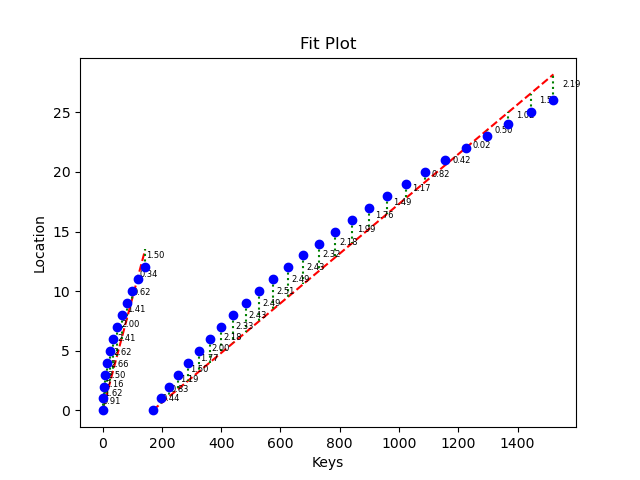
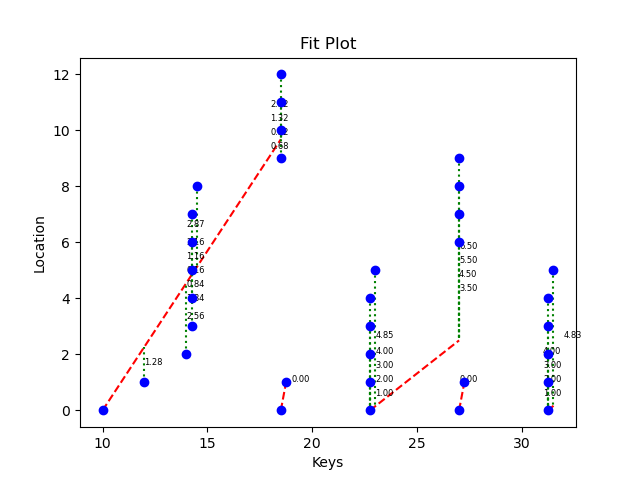
completed irng function, needs testing

diff --git a/src/segment.cpp b/src/segment.cpp
@@ -4,10 +4,10 @@
 #include <fstream>
 #include "segment.h"
 
-const float FLT_INF = std::numeric_limits<float>::infinity();
-const float INT_INF = std::numeric_limits<int>::max();
+// const float FLT_INF = std::numeric_limits<float>::infinity();
+// const float INT_INF = std::numeric_limits<int>::max();
 
-int* search_segment(Segment* segment, int key){
+float* search_segment(Segment* segment, float key){
     for(int i = 0; i < segment->size; i++){
         if(segment->data[i] == key) return (segment->data + i);
     }
@@ -23,46 +23,151 @@ void print_segment(Segment* segment, std::ofstream& stream){
     }
 }
 
-std::vector<std::pair<int, Segment*>> gen_segments_cone(int* data, int size, int err){
-    int *curr, st, loc, up, dn, dlt, ind = 0;
-    float slhigh, sllow;
-    std::vector<std::pair<int, Segment*>> res;
+std::vector<std::pair<float, Segment*>> gen_segments_cone(float* data, int size, int err){ // fix by diff
+    std::vector<std::pair<float, Segment*>> res;
+    if(size == 0) return res;
     Segment* seg;
+    float *curr, st, dlt;
+    int loc, up, dn, ind = 0;
+    float slhigh, sllow;
     while(ind < size){
         curr = (data + ind);
         st = data[ind];
-        slhigh = FLT_INF;
-        sllow = 0;
-        loc = 1;
         ind += 1;
-        while(ind < size){
+        if(size - ind > 0){
             dlt = data[ind] - st;
-            up = slhigh == FLT_INF ? INT_INF : (int)(slhigh * dlt);
-            dn = sllow == FLT_INF ? INT_INF : (int)(sllow * dlt);
-            // std::cout << up << " " << dn << " " << slhigh << " " << sllow << "\n";
-            if(loc > up || loc < dn){
-                seg = new Segment(curr, loc, (slhigh + sllow) / 2);
-                res.emplace_back(data[ind - 1], seg);
-                if(ind == size) ind += 1;
-                break;
+            if(dlt == 0){
+                loc = 1;
+                while(dlt == 0 && loc <= err && ind < size){
+                    dlt = data[ind] - st;
+                    ind += 1;
+                    loc += 1;
+                }
+                if(ind < size){
+                    seg = new Segment(curr, loc, data[ind - loc], 0);
+                    res.emplace_back(data[ind - 1], seg);
+                }
             }
-            if(dlt > 0){
-                if(slhigh == FLT_INF || up - loc > err) slhigh = (float)(loc + err) / dlt;
-                if(loc - dn > err) sllow = (float)(loc - err) / dlt;
+            else{
+                slhigh = (1.0 + err) / dlt;
+                sllow = (1.0 - err) / dlt;
+                ind += 1;
+                loc = 2;
+                // std::cout << "--------------------\n";
+                if(size - ind == 1) break;
+                while(ind < size){
+                    dlt = data[ind] - st;
+                    up = (int)(slhigh * dlt);
+                    dn = (int)(sllow * dlt);
+                    // std::cout << "y: " << loc << ", y_high: " << up << ", y_low: " << dn << ", slh: " << slhigh << ", sll: " << sllow << "\n";
+                    if(loc > up || loc < dn){
+                        seg = new Segment(curr, loc, data[ind - loc], (slhigh + sllow) / 2);
+                        res.emplace_back(data[ind - 1], seg);
+                        break;
+                    }
+                    if(loc + err < up) slhigh = (loc + err) / dlt;
+                    if(loc - err > dn) sllow = (loc - err) / dlt;
+                    ind += 1;
+                    loc += 1;
+                }
             }
-            else sllow = FLT_INF;
-            ind += 1;
-            loc += 1;
+        }
+        else{
+            loc = 1;
+            slhigh = 0;
+            sllow = 0;
+            break;
         }
     }
-    if(ind == size){
-        seg = new Segment(curr, loc, (slhigh + sllow) / 2);
-        res.emplace_back(data[ind - 1], seg);
-    }
+    seg = new Segment(curr, loc, data[ind - loc], (slhigh + sllow) / 2);
+    res.emplace_back(data[ind - 1], seg);
     return res;
 }
 
-std::vector<std::pair<int, Segment*>> gen_segments_wmpt(int* data, int size, int err){
-    std::vector<std::pair<int, Segment*>> res;
+std::vector<std::pair<float, Segment*>> gen_segments_irng(float* data, int size, int err){
+    std::vector<std::pair<float, Segment*>> res;
+    if(size == 0) return res;
+    Segment* seg;
+    float *curr, st, dlt, st_up, st_dn;
+    int dup_cnt, loc, up, dn, ind = 0;
+    float slup, sldn;
+    Make_Segment:
+    while(ind < size){
+        curr = (data + ind);
+        st = data[ind];
+        ind += 1;
+        if(size - ind > 0){
+            dlt = data[ind] - st;
+            // need to set st_up, st_dn, slup, sldn, loc
+            dup_cnt = 0;
+            while(dlt == 0 && ind < size){
+                dlt = data[ind] - st;
+                ind += 1;
+                dup_cnt += 1;
+            }
+            if(dup_cnt > 0){
+                // our start has duplicates, need custom ranging
+                if((err << 1) < dup_cnt){
+                    // valid range: ind - E + dup_cnt to ind + E
+                    // not possible to include all, cut losses
+                    ind -= (dup_cnt - (err << 1));
+                    dup_cnt = err << 1;
+                    seg = new Segment(curr, dup_cnt + 1, data[ind - dup_cnt - 1], 0);
+                    res.emplace_back(data[ind - 1], seg);
+                    goto Make_Segment;
+                }
+                else if(ind < size){
+                    // got something left we can use to extend!
+                    st_up = err;
+                    st_dn = dup_cnt - err;
+                    dlt = data[ind] - st;
+                    loc = dup_cnt + 1;
+                    slup = (err + 1 - st_up) / dlt;
+                    sldn = (err - 1 - st_dn) / dlt;
+                }
+                else{
+                    // got everything possible
+                    loc = dup_cnt + 1;
+                    slup = 0;
+                    sldn = 0;
+                    break;
+                }
+            }
+            else{
+                // no dups, easy start
+                st_up = err;
+                st_dn = -err;
+                slup = 1.0 / dlt;
+                sldn = slup;
+                ind += 1;
+                loc = 2;
+            }
+            std::cout << "--------------------\n";
+            if(size - ind == 1) break;
+            while(ind < size){
+                dlt = data[ind] - st;
+                up = (int)(slup * dlt) + st_up;
+                dn = (int)(sldn * dlt) + st_dn;
+                std::cout << "y: " << loc << ", y_high: " << up << ", y_low: " << dn << ", slup: " << slup << ", sldn: " << sldn << ", stup: " << st_up << ", stdn: " << st_dn << "\n";
+                if(loc - err > up || loc + err < dn){
+                    seg = new Segment(curr, loc, data[ind - loc], (slup + sldn) / 2);
+                    res.emplace_back(data[ind - 1], seg);
+                    break;
+                }
+                if(loc + err < up) slup = (loc + err - st_up) / dlt;
+                if(loc - err > dn) sldn = (loc - err - st_dn) / dlt;
+                ind += 1;
+                loc += 1;
+            }
+        }
+        else{
+            loc = 1;
+            slup = 0;
+            sldn = 0;
+            break;
+        }
+    }
+    seg = new Segment(curr, loc, data[ind - loc], (slup + sldn) / 2);
+    res.emplace_back(data[ind - 1], seg);
     return res;
 }

diff --git a/src/ktree.h b/src/ktree.h
@@ -7,8 +7,8 @@
 
 struct Node
 {
-    std::vector<int> keys;
-    std::vector<Segment *> values;
+    std::vector<float> keys;
+    std::vector<Segment*> values;
     std::vector<std::unique_ptr<Node>> children;
 
     bool is_leaf() const
@@ -21,12 +21,12 @@ template <int K>
 class KTree
 {
     std::unique_ptr<Node> root;
-    std::unique_ptr<Node> build_recursive(const std::vector<std::pair<int, Segment *>> &entries, int left, int right);
+    std::unique_ptr<Node> build_recursive(const std::vector<std::pair<float, Segment*>> &entries, int left, int right);
 
 public:
-    void build(const std::vector<std::pair<int, Segment *>> &sorted_entries);
-    Segment *search_tree(int key) const;
-    int *lookup(int key) const
+    void build(const std::vector<std::pair<float, Segment*>> &sorted_entries);
+    Segment *search_tree(float key) const;
+    float* lookup(float key) const
     {
         Segment *seg = search_tree(key);
         if (seg)
@@ -36,7 +36,7 @@ public:
 };
 
 template <int K>
-std::unique_ptr<Node> KTree<K>::build_recursive(const std::vector<std::pair<int, Segment *>> &entries, int left, int right)
+std::unique_ptr<Node> KTree<K>::build_recursive(const std::vector<std::pair<float, Segment*>> &entries, int left, int right)
 {
     int n = right - left;
     if (n == 0)
@@ -75,17 +75,17 @@ std::unique_ptr<Node> KTree<K>::build_recursive(const std::vector<std::pair<int,
 }
 
 template <int K>
-void KTree<K>::build(const std::vector<std::pair<int, Segment *>> &sorted_entries)
+void KTree<K>::build(const std::vector<std::pair<float, Segment *>> &sorted_entries)
 {
     root = build_recursive(sorted_entries, 0, sorted_entries.size());
 }
 
 template <int K>
-Segment *KTree<K>::search_tree(int key) const
+Segment *KTree<K>::search_tree(float key) const
 {
     Node *node = root.get();
     Segment *best_val = nullptr;
-    int best_key;
+    float best_key;
     int i;
 
     while (node)

diff --git a/src/main.cpp b/src/main.cpp
@@ -5,9 +5,27 @@
 #include "ktree.h"
 #include "segment.h"
 
-int gen_func(int ind)
-{
+int gen_func(int ind){
     return ind * ind;
+}
+
+float* gen_edgecase(int E, int N){
+    float x1 = 10, half_e = E / 2.0, inv_e = 1.0 / E, x_curr;
+    float* vals = (float*) malloc(sizeof(float) * (4 + (N * (E + 2))));
+    int ind = 3;
+    vals[0] = x1;
+    vals[1] = x1 + half_e;
+    vals[2] = x1 + E;
+    x_curr = x1 + E + inv_e;
+    for(int i = 0; i < N; i++, ind++){
+        for(int j = 0; j <= E; j++, ind++){
+            vals[ind] = x_curr;
+        }
+        vals[ind] = x_curr + inv_e;
+        x_curr = vals[ind] + E;
+    }
+    vals[ind] = x_curr - half_e;
+    return vals;
 }
 
 int main(int argc, char *argv[])
@@ -25,13 +43,20 @@ int main(int argc, char *argv[])
     NUM_VALS = std::stoi(argv[1]);
     MAX_ERR = std::stoi(argv[2]);
 
-    int *vals = (int *)malloc(sizeof(int) * NUM_VALS);
-    for (int i = 0; i < NUM_VALS; i++)
-    {
-        vals[i] = gen_func(i);
-    }
+    // float* vals = (float*) malloc(sizeof(float) * NUM_VALS);
+    // for (int i = 0; i < NUM_VALS; i++)
+    // {
+    //     vals[i] = gen_func(i);
+    // }
+    int N = 5;
+    NUM_VALS = 4 + (N * (MAX_ERR + 2));
+    float* vals = gen_edgecase(MAX_ERR, N);
+    // for (int i = 0; i < NUM_VALS; i++)
+    // {
+    //     std::cout << vals[i] << "\n";
+    // }
 
-    std::vector<std::pair<int, Segment *>> data = gen_segments_cone(vals, NUM_VALS, MAX_ERR);
+    std::vector<std::pair<float, Segment *>> data = gen_segments_irng(vals, NUM_VALS, MAX_ERR);
     Segment *seg;
 
     std::ofstream stream("seg_out.txt");

diff --git a/src/segment.h b/src/segment.h
@@ -2,17 +2,14 @@
 
 struct Segment
 {
-    int low, high, *data, size;
-    float slp;
-    Segment(int *values, int num, float slope)
-        : data(values), size(num), slp(slope)
-    {
-        low = data[0];
-        high = data[num - 1];
-    }
+    float *data, x_icpt, slp;
+    int size;
+    Segment(float *values, int num, float x_intercpt, float slope)
+        : data(values), size(num), x_icpt(x_intercpt), slp(slope)
+    {}
 };
 
-int *search_segment(Segment *segment, int key);
+float* search_segment(Segment *segment, float key);
 void print_segment(Segment *segment, std::ofstream &stream);
-std::vector<std::pair<int, Segment *>> gen_segments_cone(int *data, int size, int err);
-std::vector<std::pair<int, Segment *>> gen_segments_wmpt(int *data, int size, int err);
+std::vector<std::pair<float, Segment *>> gen_segments_cone(float *data, int size, int err);
+std::vector<std::pair<float, Segment *>> gen_segments_irng(float *data, int size, int err);

diff --git a/src/fit_plot.py b/src/fit_plot.py
@@ -9,7 +9,7 @@ def read_segments(filename):
                 slope = float(file.readline().strip())
                 arr = [0 for _ in range(arr_len)]
                 for i in range(arr_len):
-                    arr[i] = int(file.readline().strip())
+                    arr[i] = float(file.readline().strip())
                 result.append((slope, arr))
             except Exception as e:
                 # Break the loop if we encounter any error (likely EOF)
@@ -37,6 +37,7 @@ def plot_segment_fit(segment, slope, error_lines=True):
 
 
 collec = read_segments("seg_out.txt")
+print("Number of segements read:", len(collec))
 for slp, seg in collec:
     plot_segment_fit(seg, slp, True)
 
